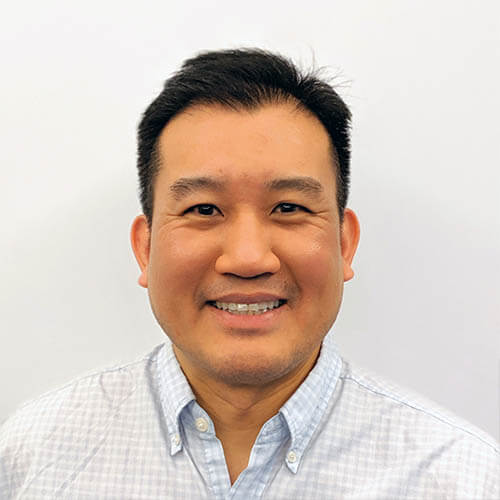
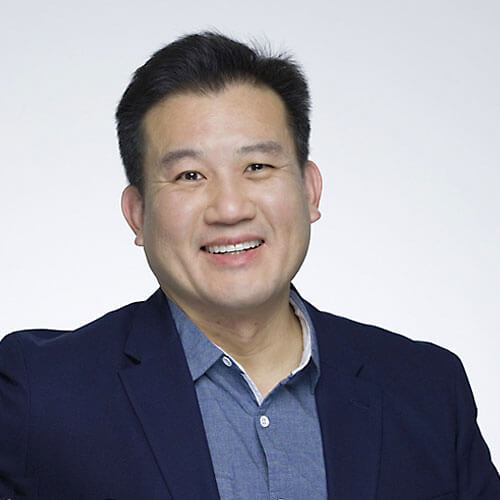
[no bug] Leadership page - update Leong’s headshot, remove Mayo

diff --git a/bedrock/mozorg/templates/mozorg/about/leadership.html b/bedrock/mozorg/templates/mozorg/about/leadership.html
@@ -335,46 +335,6 @@
         </div>
       </article>
 
-      <article id="mark-mayo" data-id="mark-mayo" class="vcard has-bio" itemscope itemtype="http://schema.org/Person">
-        <figure class="headshot">
-          {{ high_res_img('mozorg/about/leadership/mark-mayo.jpg', {'alt': '', 'width': '160', 'height': '160', 'class': 'photo', 'itemprop': 'image'}) }}
-          <figcaption><h4 class="fn" itemprop="name">Mark Mayo</h4></figcaption>
-        </figure>
-
-        <div class="person-info">
-          <p class="title" itemprop="jobTitle">{{ _('Chief Product Officer') }}</p>
-
-          <ul class="elsewhere">
-            <li><a class="url twitter" itemprop="url" rel="external" href="https://twitter.com/mmayo">@mmayo</a></li>
-            <li><a class="url book" itemprop="url" rel="external" href="https://mozillians.org/u/mmayo/">{{ _('Mozillians profile') }}</a></li>
-          </ul>
-
-          <ul class="utility">
-            <li><a class="link" href="{{ url('mozorg.about.leadership') }}#mark-mayo">{{ _('Link to this bio') }}</a></li>
-          </ul>
-        </div>
-
-        <div class="person-bio">
-          <p>
-          {% trans %}
-            As Chief of Product Mark Mayo oversees new and existing product development, working in collaboration with the Emerging Technologies team, and has overall responsibility for the Firefox, Pocket and Emerging Market teams.
-          {% endtrans %}
-          </p>
-
-          <p>
-          {% trans %}
-            His responsibilities include overseeing strategic direction for all products, and the associated services that allow Mozilla to be a major force in the world building a safer, better, open Web. Mark came to Mozilla in 2011 to build Mozilla’s cloud offerings, including the Identity, Sync and Location platforms.
-          {% endtrans %}
-          </p>
-
-          <p>
-          {% trans %}
-            Before joining Mozilla, Mark founded an e-commerce company that pioneered mobile flash sales for the outdoor retail market. Previously, Mark was CTO of cloud computing pioneer Joyent where he stewarded Node.js from idea phase to the world’s fastest growing developer ecosystem. Mark’s other professional passion is systems biology, and he spent five years at the Nobel laureate Michael Smith’s Genome Sequencing Center ensuring the human genome was a public resource. His background is in operating systems and bioinformatics, and he holds a B.Sc. in Computer Science from the University of Guelph, Canada.
-          {% endtrans %}
-          </p>
-        </div>
-      </article>
-
       <article id="sean-white" data-id="sean-white" class="vcard has-bio" itemscope itemtype="http://schema.org/Person">
         <figure class="headshot">
           {{ high_res_img('mozorg/about/leadership/sean-white.jpg', {'alt': '', 'width': '160', 'height': '160', 'class': 'photo', 'itemprop': 'image'}) }}
